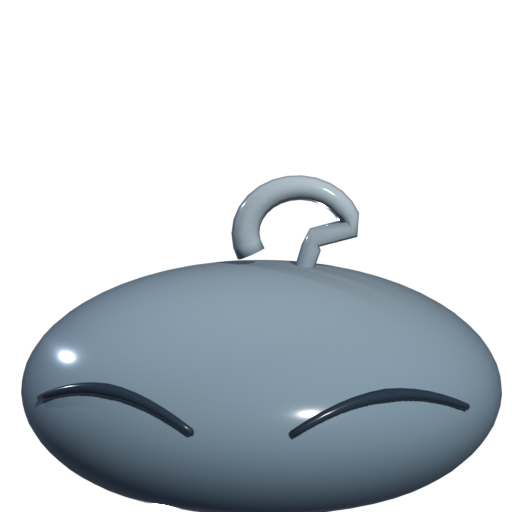
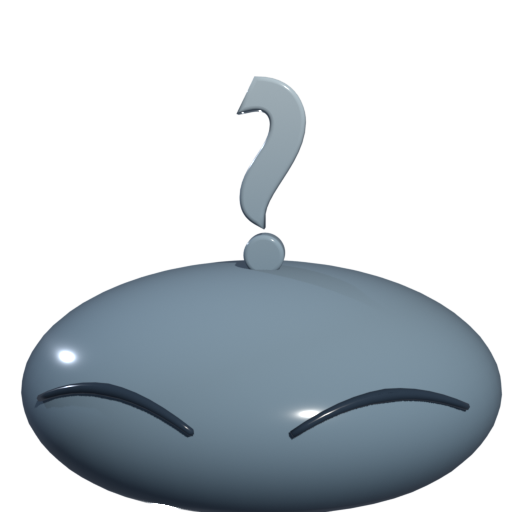
fix(slime_pet): glyphs from a real typeface per docs/art/_references/slime_tensura
Joan: 'si buscas signo de interrogacion en internet te vas a dar cuenta que no
son iguales... se entiende, pero se cerro, no se ve bien prolijo'. He is right,
and the fix is better than hunting for a picture: a question mark is not a shape
to be guessed, it is a TYPOGRAPHIC form. The hand-rolled parametric hook curled
too far and closed into a ring, which is exactly why it read as a coat hook.

glyph_bm() now pulls the real outline from Blender's own text object, extrudes it
for body and bevels the edge so it reads as gel rather than as type. Headless-safe
via new_from_object on the evaluated depsgraph, never object.convert, which needs
an editor area. Built-in font, so no external dependency and no licence question.

The soft register is now correct: both marks carry their dot and sit on the dome.

Found while looking, and it is a design finding rather than a bug: at hyperbole
scale an extruded typographic glyph reads as a LETTER STANDING ON THE DESK, not
as a creature that deformed. The question mark reads as a seahorse and the bang
as a bowling pin. The soft register works precisely because the dome - the
creature - is still present and the glyph is an accessory. The hyperbole register
needs to keep a recognisable gel base and STRETCH into the glyph rather than be
replaced by it. That is Joan's own criterion returned: it has to stay the same
creature.

Also still open: deflate overflows the frame at squash 0.30, and the hyperbole
faces remain invisible.

Changed region(s): [[0.4375, 0.125, 0.7188, 0.5312]]

diff --git a/game/tools/blender/slime_pet/build_slime_pet.py b/game/tools/blender/slime_pet/build_slime_pet.py
@@ -226,6 +226,75 @@ def sweep_tube(bm, points, radii, ring=8):
         pass
 
 
+def glyph_bm(char, height, depth=0.30, bevel=0.055, res=4):
+    """A ? or ! taken from a REAL TYPEFACE, not drawn by hand.
+
+    Joan, 2026-08-09: *"si buscás signo de interrogación en Internet te vas a dar
+    cuenta que no son iguales... se entiende, pero se cerró, no se ve bien
+    prolijo"*. He is right, and the fix is better than hunting for a picture: a
+    question mark is not a shape to be guessed, it is a TYPOGRAPHIC form. The
+    hand-rolled parametric hook curled too far and closed into a ring, which is
+    exactly why it read as a coat hook.
+
+    Blender's own text object carries the real outline. Extrude gives it body and
+    a bevel rounds the edge so it reads as gel rather than as type. Uses the
+    built-in font, so there is no external dependency and no font licence to
+    worry about.
+
+    Headless-safe: the mesh is pulled through the depsgraph
+    (`new_from_object` on the evaluated object), never through `object.convert`,
+    which needs an editor area.
+    """
+    curve = bpy.data.curves.new("glyph_" + char, type="FONT")
+    curve.body = char
+    curve.align_x = "CENTER"
+    curve.align_y = "CENTER"
+    curve.extrude = depth * 0.5
+    curve.bevel_depth = bevel
+    curve.bevel_resolution = res
+    ob = bpy.data.objects.new("glyph_" + char, curve)
+    bpy.context.scene.collection.objects.link(ob)
+
+    dg = bpy.context.evaluated_depsgraph_get()
+    me = bpy.data.meshes.new_from_object(ob.evaluated_get(dg), depsgraph=dg)
+
+    bm = bmesh.new()
+    bm.from_mesh(me)
+    bpy.data.meshes.remove(me)
+    bpy.data.objects.remove(ob, do_unlink=True)
+    bpy.data.curves.remove(curve)
+
+    # The text object lies in XY with its normal along Z. Stand it up so it faces
+    # the camera, then scale so its real height matches what the caller asked for.
+    for v in bm.verts:
+        v.co = Vector((v.co.x, -v.co.z, v.co.y))
+    zs = [v.co.z for v in bm.verts]
+    span = max(zs) - min(zs)
+    if span > 1e-6:
+        k = height / span
+        for v in bm.verts:
+            v.co *= k
+    mid = (max(v.co.z for v in bm.verts) + min(v.co.z for v in bm.verts)) * 0.5
+    for v in bm.verts:
+        v.co.z -= mid
+    return bm
+
+
+def merge_bm(dst, src, offset=Vector((0.0, 0.0, 0.0)), mark_dark=False):
+    """Copy src's geometry into dst at an offset. src is freed."""
+    src.verts.ensure_lookup_table()
+    made = [dst.verts.new(v.co + offset) for v in src.verts]
+    for f in src.faces:
+        try:
+            dst.faces.new([made[v.index] for v in f.verts])
+        except ValueError:
+            pass
+    if mark_dark:
+        DARK.update(made)
+    src.free()
+    return made
+
+
 def question_path(scale, n=22):
     """Centre line of a question mark, in the XZ plane, drawn top-down."""
     pts, rad = [], []
@@ -332,18 +401,13 @@ def with_tendril(bm, kind, scale):
     a size that was modelled instead of measured.
     """
     top = max(v.co.z for v in bm.verts)
-    if kind == "question":
-        pts, rad = question_path(scale)
-        base_z = top - 0.18 * scale                 # sinks INTO the gel
-        off = Vector((0.10, 0.0, base_z - pts[-1].z))
-        sweep_tube(bm, [p + off for p in pts], rad)
-        add_ball(bm, pts[-1] + off + Vector((0.0, 0.0, -0.16 * scale)), scale * 0.075)
-    else:
-        pts, rad = bang_path(scale)
-        base_z = top - 0.14 * scale
-        off = Vector((0.06, 0.0, base_z - pts[-1].z))
-        sweep_tube(bm, [p + off for p in pts], rad)
-        add_ball(bm, pts[-1] + off + Vector((0.0, 0.0, -0.17 * scale)), scale * 0.085)
+    char = "?" if kind == "question" else "!"
+    g = glyph_bm(char, height=scale * 1.5, depth=0.26 * scale, bevel=0.048 * scale)
+    g_lo = min(v.co.z for v in g.verts)
+    # Seat the glyph's own bottom just inside the gel: measured off the glyph and
+    # off the dome, never assumed. The previous version anchored a hand-drawn tail
+    # and buried the dot inside the body, which is why the dot was never visible.
+    merge_bm(bm, g, Vector((0.06 * scale, -0.05, top - g_lo - 0.06 * scale)))
     return bm
 
 
@@ -355,18 +419,19 @@ def make_hyperbole(kind, scale):
     the thickest part of the glyph so it still reads as the same creature.
     """
     bm = bmesh.new()
-    if kind == "question":
-        pts, rad = question_path(scale, n=34)
-        rad = [r * 2.1 for r in rad]
-        sweep_tube(bm, pts, rad, ring=20)
-        add_ball(bm, Vector((0.02, 0.0, -0.10 * scale)), scale * 0.185, segments=14)
-        face_r, face_h = scale * 0.40, 1.02 * scale
+    char = "?" if kind == "question" else "!"
+    # Fatter extrusion and a heavier bevel: at body scale the glyph has to read as
+    # a gel mass, not as a letter someone stood up on the desk.
+    # The camera frames a 0.5 m dome. A 1.6 m glyph overflowed it and cut off the
+    # dot, which is the whole bottom half of both marks. Sized to the body's own
+    # visual weight instead.
+    g = glyph_bm(char, height=scale * 1.45, depth=0.55 * scale, bevel=0.085 * scale)
+    merge_bm(bm, g)
+    g_hi = max(v.co.z for v in bm.verts)
+    if char == "?":
+        face_r, face_h = scale * 0.46, g_hi * 0.58
     else:
-        pts, rad = bang_path(scale, n=20)
-        rad = [r * 2.6 for r in rad]
-        sweep_tube(bm, pts, rad, ring=20)
-        add_ball(bm, Vector((0.0, 0.0, 0.20 * scale)), scale * 0.20, segments=14)
-        face_r, face_h = scale * 0.30, 1.05 * scale
+        face_r, face_h = scale * 0.30, g_hi * 0.62
     # It has to stay the SAME creature, or the hyperbole reads as a prop someone
     # left on the desk. Two short strokes across the glyph's thickest span.
     for side in (-1, 1):
